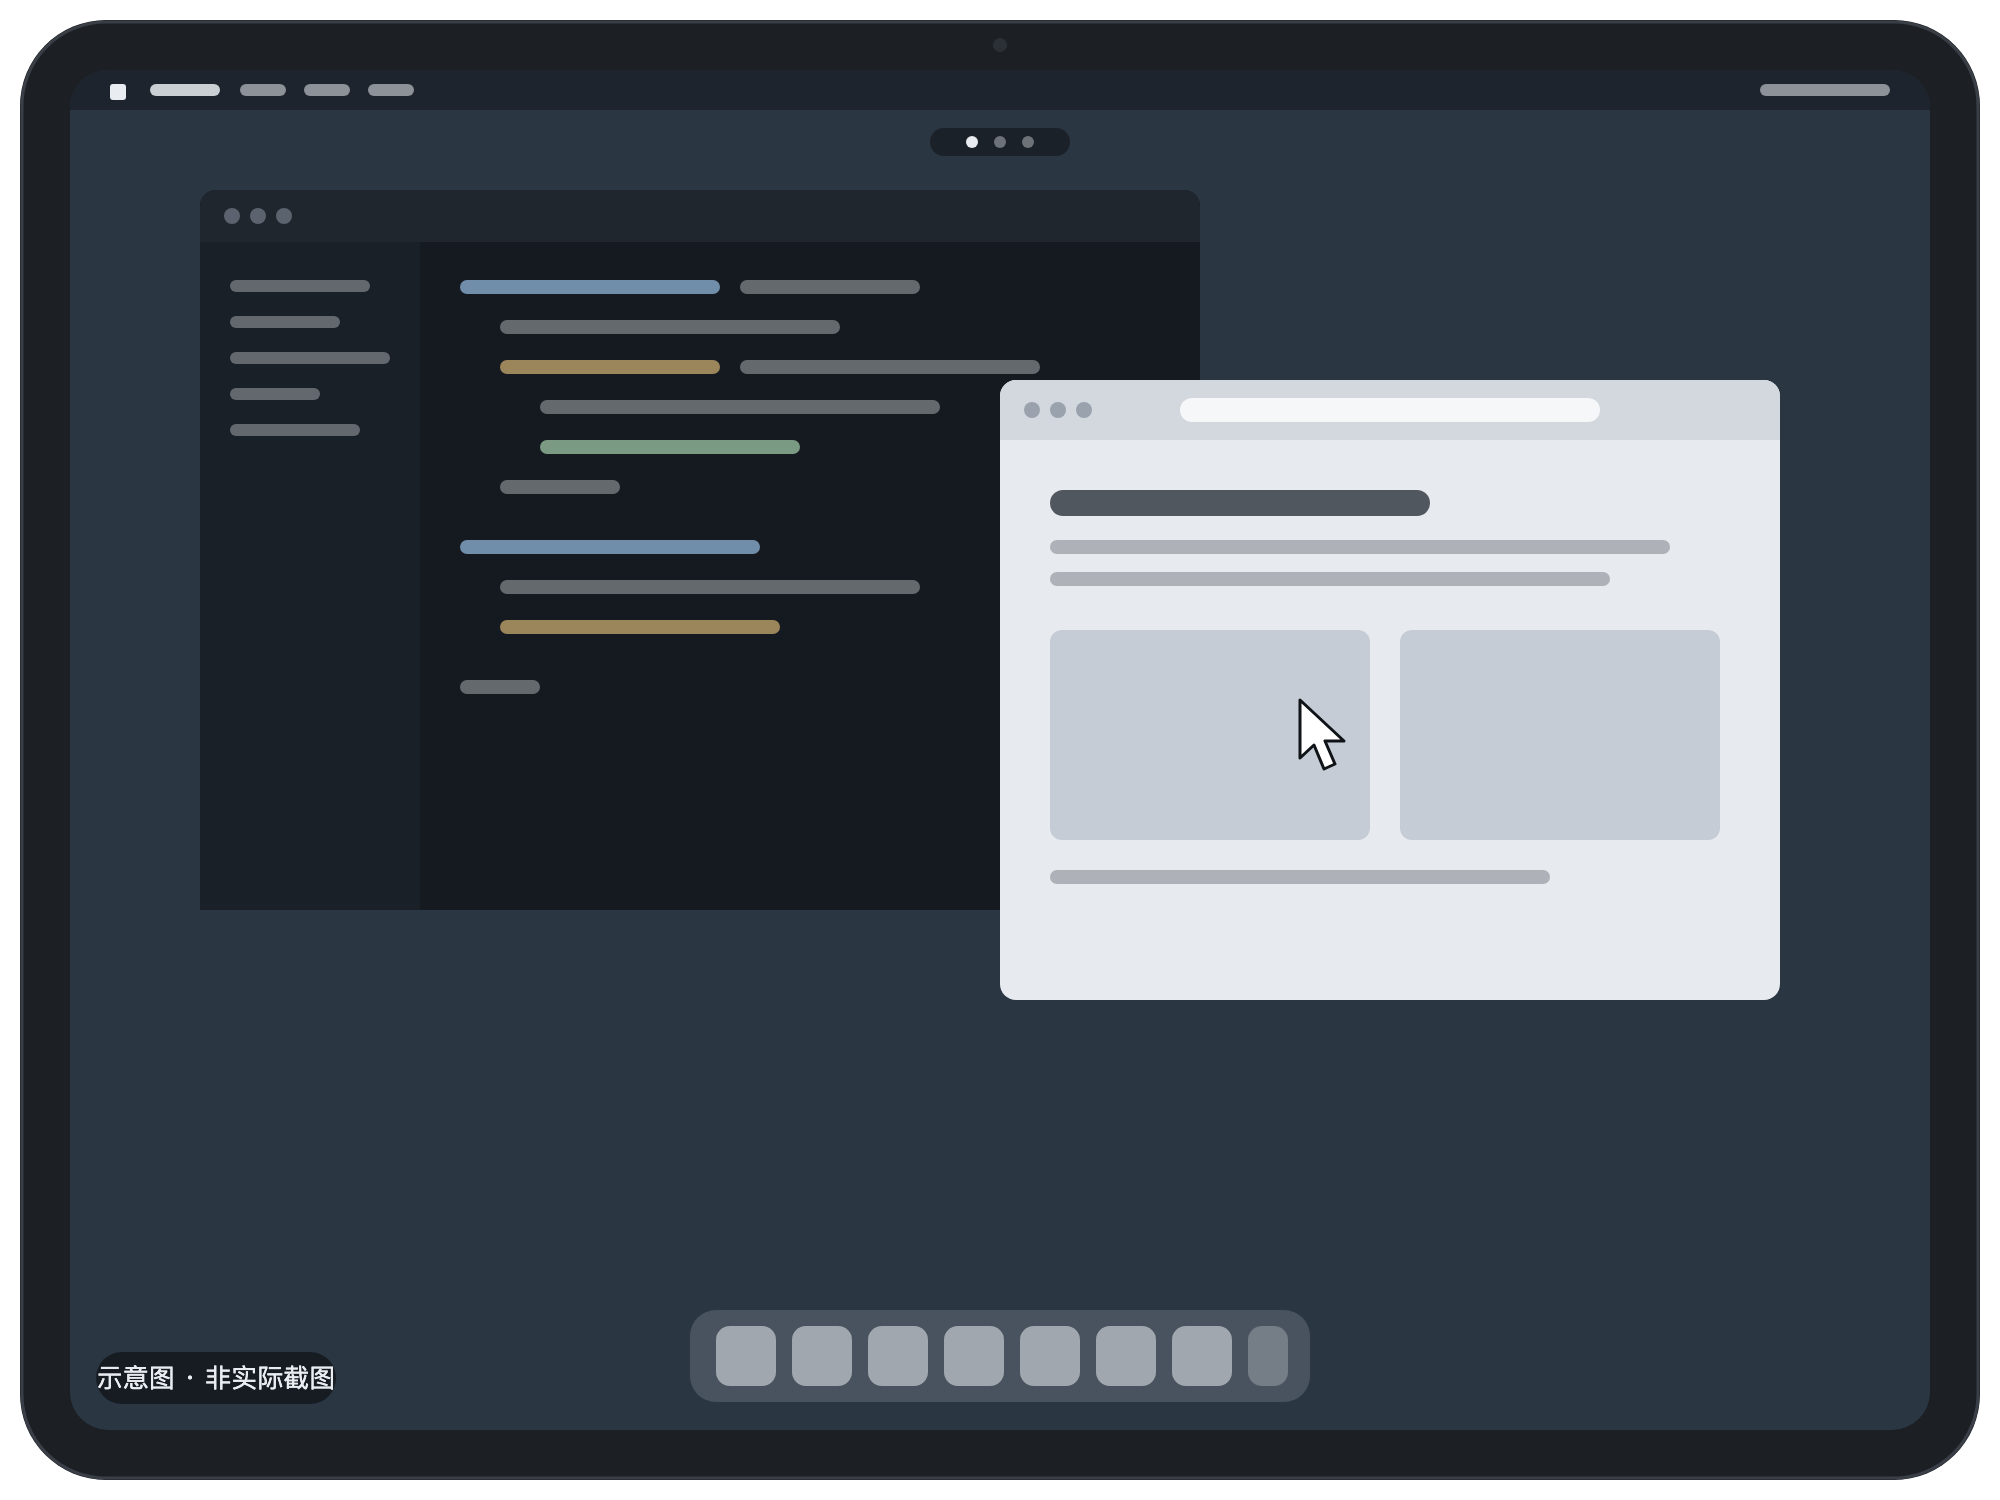
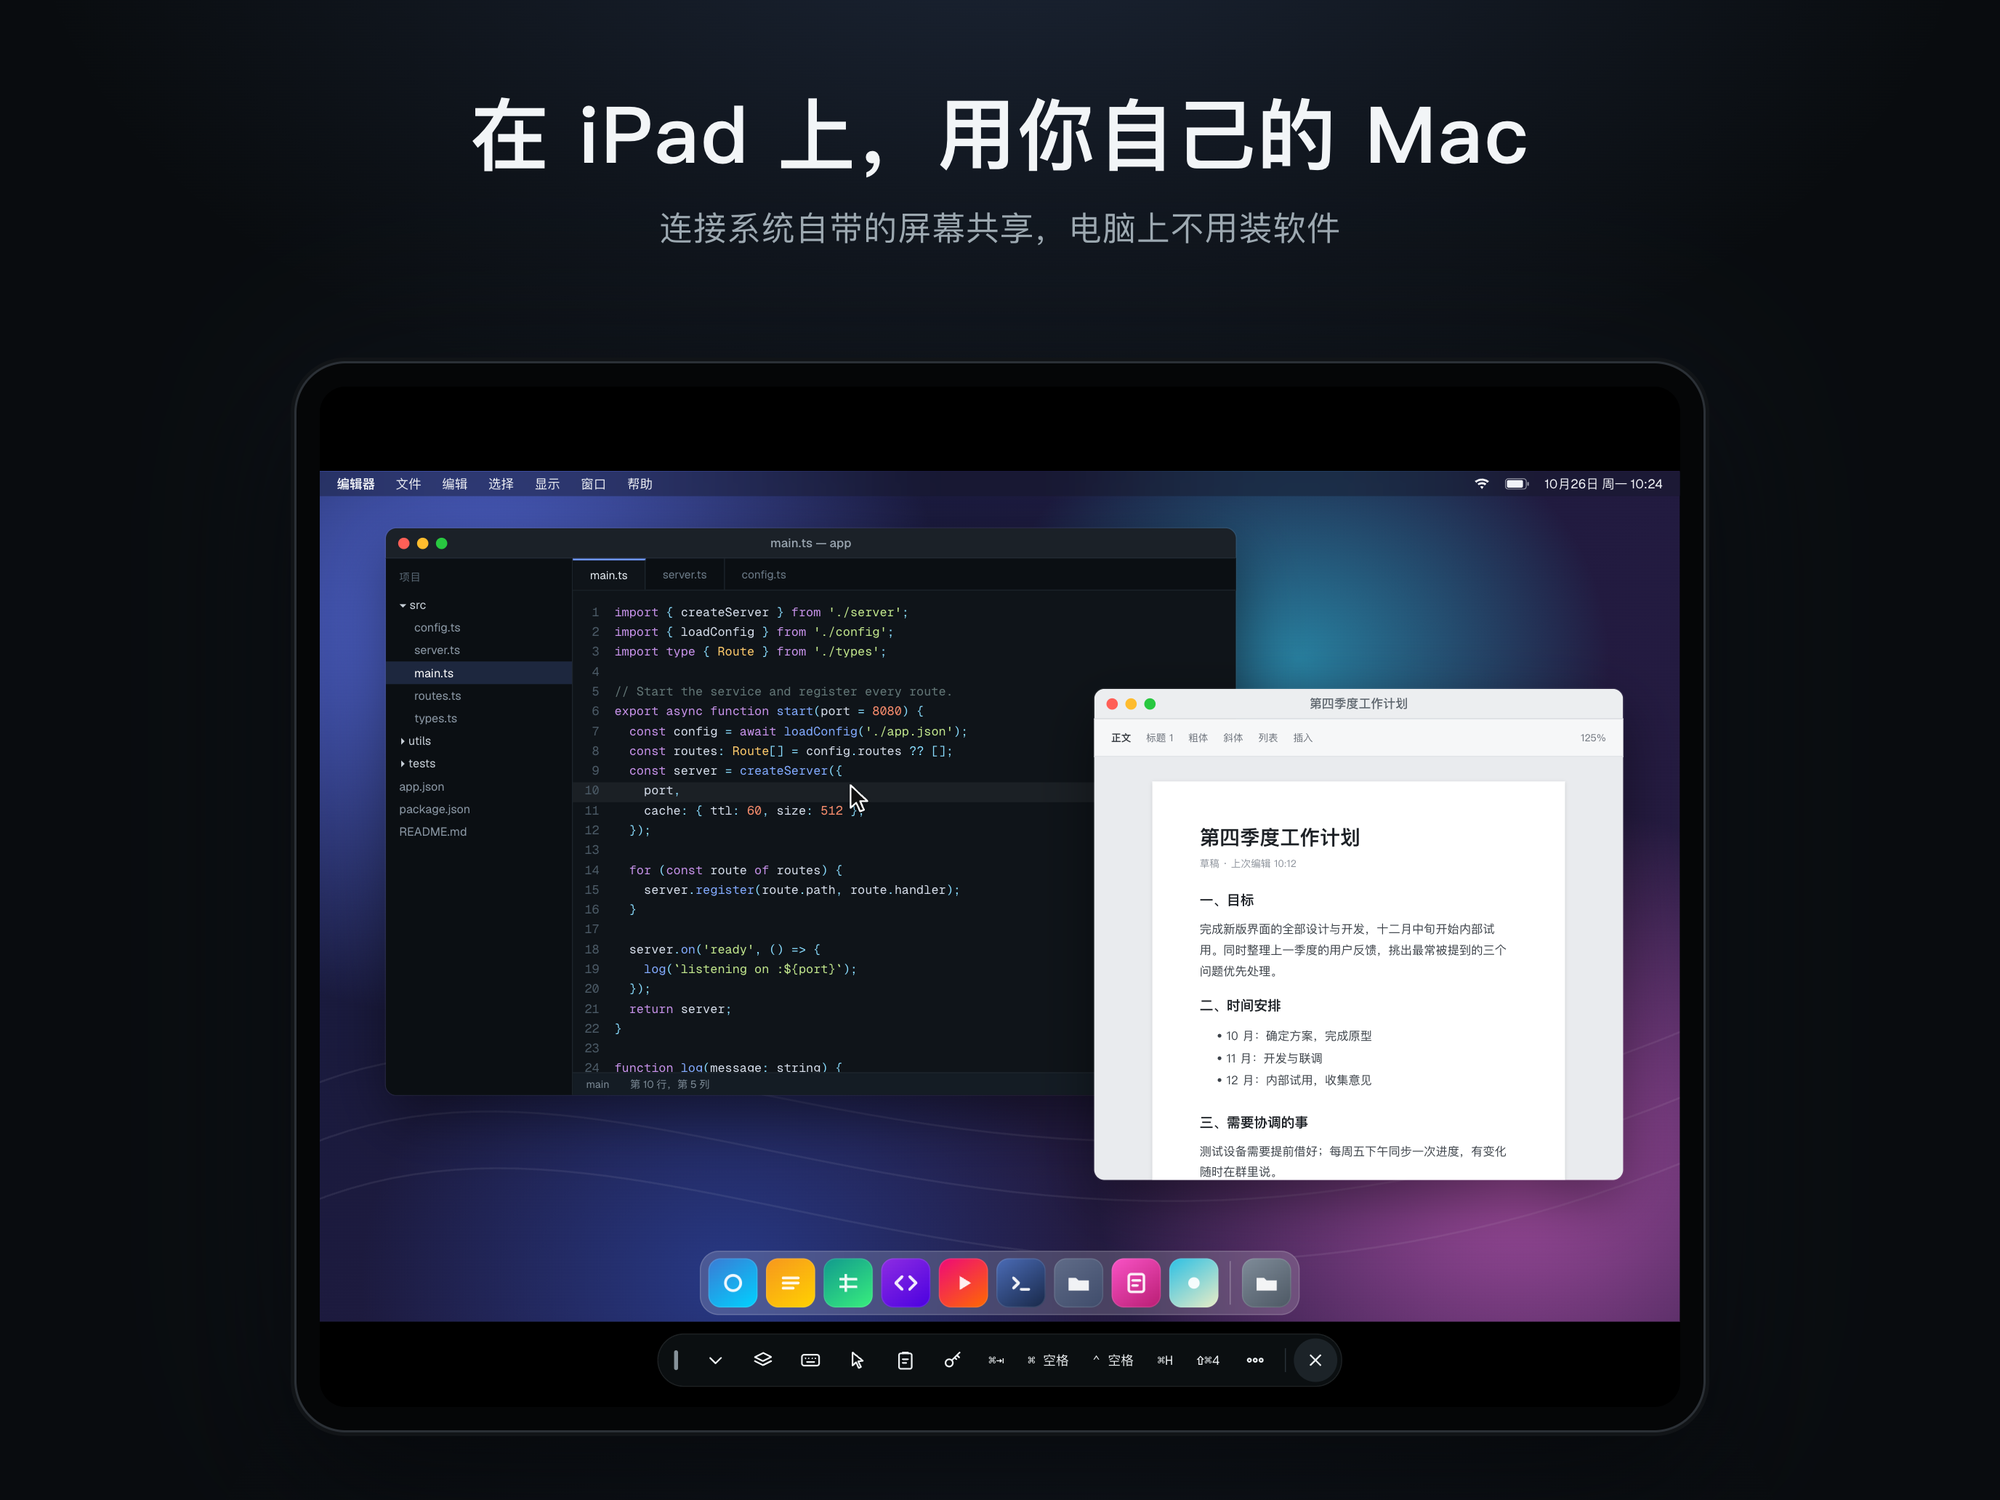
Replace placeholder screenshots and contact email
Swap the placeholder images for the new App Store mockups, label them as
interface mockups, drop the unused placeholder SVGs, and point every
contact link at gxlself@gmail.com.

diff --git a/index.html b/index.html
@@ -43,8 +43,8 @@
           <a class="link-arrow" href="#faq">怎么开始</a>
         </div>
         <figure class="shot hero-shot">
-          <img src="assets/screens/ipad-1.png" width="2000" height="1500" alt="iPad 上显示一台 Mac 的桌面">
-          <figcaption>画面为示意</figcaption>
+          <img src="assets/screens/ipad-1.png" width="2000" height="1500" alt="iPad 上全屏控制一台 Mac，底部是远屏的工具栏">
+          <figcaption>界面示意</figcaption>
         </figure>
       </div>
     </section>
@@ -98,8 +98,8 @@
             </ul>
           </div>
           <figure class="shot shot-phone">
-            <img src="assets/screens/iphone-1.png" width="900" height="1840" alt="iPhone 上的电脑列表">
-            <figcaption>画面为示意</figcaption>
+            <img src="assets/screens/iphone-1.png" width="628" height="1248" alt="iPhone 上的网络接入设置：Tailscale 已通过 App 内连接接入">
+            <figcaption>界面示意</figcaption>
           </figure>
         </div>
       </div>
@@ -114,7 +114,7 @@
         </div>
         <figure class="shot" style="margin-bottom:48px">
           <img src="assets/screens/ipad-2.png" width="2000" height="1500" alt="iPad 分屏，左边一台 Mac，右边一台 Windows 电脑">
-          <figcaption>画面为示意</figcaption>
+          <figcaption>界面示意</figcaption>
         </figure>
         <div class="features">
           <div class="feature">
@@ -268,7 +268,7 @@
       <nav>
         <a href="privacy.html">隐私政策</a>
         <a href="support.html">支持</a>
-        <a href="mailto:support@example.com">support@example.com</a>
+        <a href="mailto:gxlself@gmail.com">gxlself@gmail.com</a>
       </nav>
     </div>
   </footer>

diff --git a/privacy.html b/privacy.html
@@ -108,7 +108,7 @@
         <p>如果本政策有变化，我们会更新本页面并修改上方的生效日期。如有涉及数据收集方式的实质变化，会在 App 更新说明中告知。</p>
 
         <h2>联系我们</h2>
-        <p>对本政策有任何疑问，请发邮件至 <a href="mailto:support@example.com">support@example.com</a>。</p>
+        <p>对本政策有任何疑问，请发邮件至 <a href="mailto:gxlself@gmail.com">gxlself@gmail.com</a>。</p>
       </article>
 
       <article class="lang-block" id="en" lang="en">
@@ -192,7 +192,7 @@
         <p>If this policy changes, we will update this page and the effective date above. Material changes to how data is handled will also be noted in the App's release notes.</p>
 
         <h2>Contact</h2>
-        <p>Questions about this policy? Email <a href="mailto:support@example.com">support@example.com</a>.</p>
+        <p>Questions about this policy? Email <a href="mailto:gxlself@gmail.com">gxlself@gmail.com</a>.</p>
       </article>
 
     </div>
@@ -204,7 +204,7 @@
       <nav>
         <a href="./">首页</a>
         <a href="support.html">支持</a>
-        <a href="mailto:support@example.com">support@example.com</a>
+        <a href="mailto:gxlself@gmail.com">gxlself@gmail.com</a>
       </nav>
     </div>
   </footer>

diff --git a/support.html b/support.html
@@ -32,7 +32,7 @@
 
       <div class="contact-card">
         <p class="small" style="margin:0 0 6px">邮件 · Email</p>
-        <a class="email" href="mailto:support@example.com?subject=%E8%BF%9C%E5%B1%8F%20Remote%20Screen%20%E5%8F%8D%E9%A6%88">support@example.com</a>
+        <a class="email" href="mailto:gxlself@gmail.com?subject=%E8%BF%9C%E5%B1%8F%20Remote%20Screen%20%E5%8F%8D%E9%A6%88">gxlself@gmail.com</a>
         <p style="margin:14px 0 0">开发者 Xiaolong Gao（个人开发者）。通常会在几个工作日内回复，中文、English 都可以。</p>
       </div>
 
@@ -125,7 +125,7 @@
       <nav>
         <a href="./">首页</a>
         <a href="privacy.html">隐私政策</a>
-        <a href="mailto:support@example.com">support@example.com</a>
+        <a href="mailto:gxlself@gmail.com">gxlself@gmail.com</a>
       </nav>
     </div>
   </footer>
